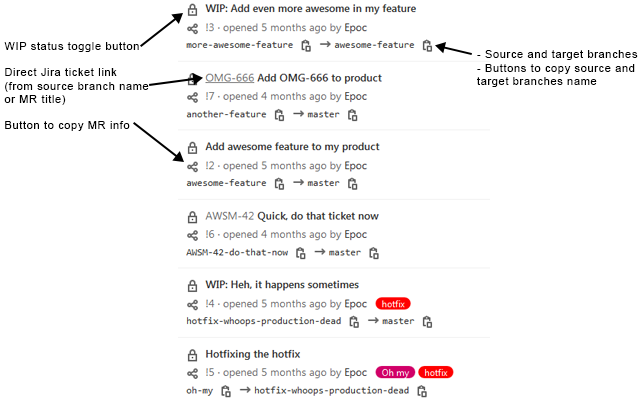
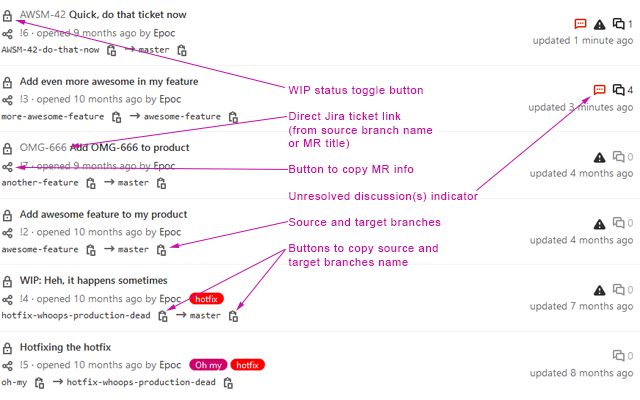
Actually implement the feature

diff --git a/js/content.js b/js/content.js
@@ -416,6 +416,18 @@
                         newInfoLineToInject
                     );
                 }
+
+                // -----------------------------------------------
+                // Unresolved discussions indicator
+
+                if (this.preferences.enable_unresolved_discussions_indicator && !mergeRequest.blocking_discussions_resolved) {
+                    let unresolvedDiscussionsIndicatorToInject = '<li><span class="has-tooltip" title="Unresolved discussion(s) left">' + this.buildSpriteIcon('comment-dots', 'danger-title') + '</span></li>';
+
+                    this.parseHtmlAndPrepend(
+                        mergeRequestNode.querySelector('.issuable-meta .controls'),
+                        unresolvedDiscussionsIndicatorToInject
+                    );
+                }
             }, this);
         }
 
@@ -597,8 +609,8 @@
         /**
          * Generate the HTML code corresponding to an SVG icon.
          */
-        buildSpriteIcon(iconName) {
-            return '<svg class="s16" data-testid="' + iconName + '-icon">' +
+        buildSpriteIcon(iconName, classes = '') {
+            return '<svg class="s16 ' + classes + '" data-testid="' + iconName + '-icon">' +
                 '<use xlink:href="' + this.baseIconsUrl + '#' + iconName + '"></use>' +
             '</svg>';
         }

diff --git a/html/options.html b/html/options.html
@@ -67,7 +67,7 @@
                 <input type="checkbox" id="enable_unresolved_discussions_indicator">
             </div>
             <div class="fluid">
-                <label for="enable_unresolved_discussions_indicator">Show an indicator when there's unresolved discussions left</label>
+                <label for="enable_unresolved_discussions_indicator">Show an indicator when there's unresolved discussion(s) left</label>
             </div>
         </div>
         <div class="txt-center pts pbs"><button type="submit" class="browser-style">Save preferences</button></div>

diff --git a/README.md b/README.md
@@ -23,7 +23,9 @@ A browser extension that enhance all Merge Requests lists on any instance of Git
     - Base Jira URL is configured in extension preferences
     - The ticket ID or an icon can be displayed as the link label (configured in extension preferences)
   - WIP toggle button (can be enabled/disabled in the extension preferences)
-  - Show an indicator when there's unresolved discussions left on Merge Requests (can be enabled/disabled in the extension preferences)
+  - Show an indicator when there's unresolved discussions left on Merge Requests
+    - Can be enabled/disabled in the extension preferences
+    - Note the **All discussions must be resolved** option must be enabled for this feature to be working as expected. This option must be enabled per project and is located in **Settings > General > Merge Requests > Merge checks**
   - Compatible with all GitLab editions (GitLab CE, GitLab EE, GitLab.com) (look at the prerequisites, though)
 
 ## Prerequisites
